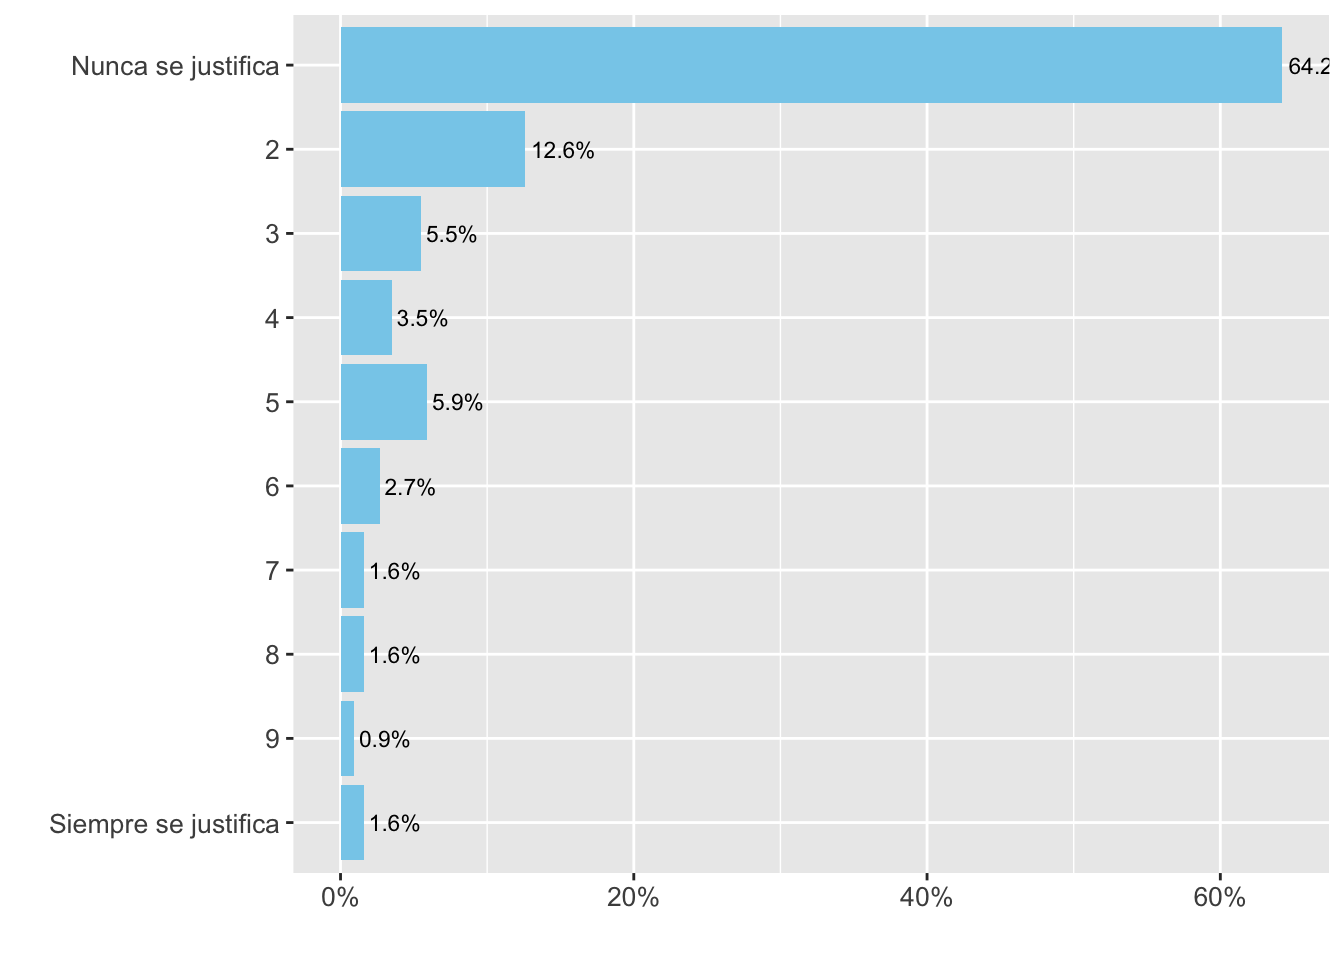
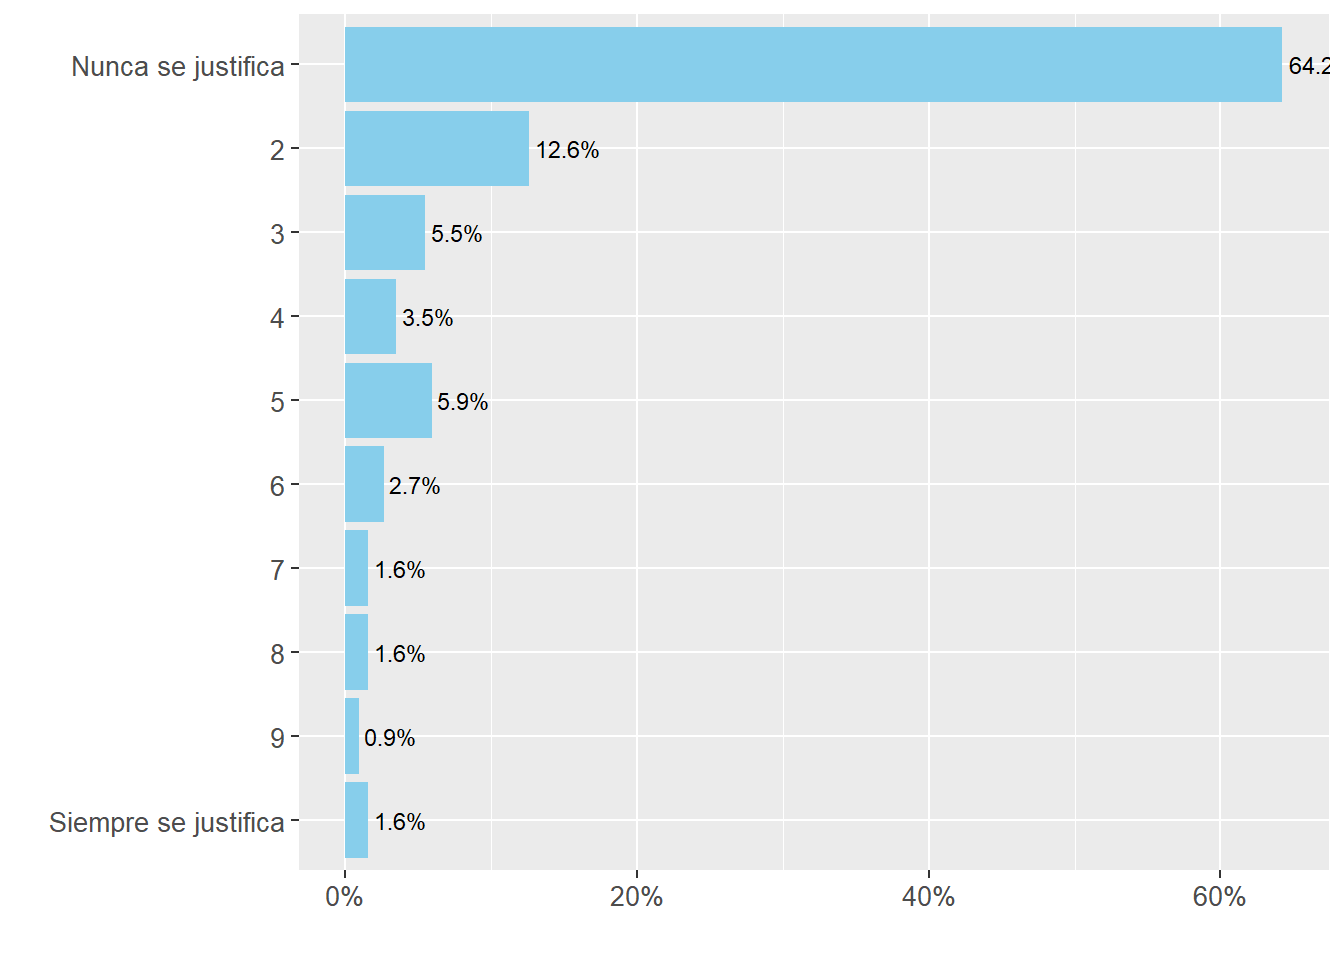
tercer commit aborto

diff --git a/content/post/valores/2020-11-02-los-ecuatorianos-aprueban-el-aborto.html b/content/post/valores/2020-11-02-los-ecuatorianos-aprueban-el-aborto.html
@@ -15,17 +15,17 @@ images:
   - 'https://raw.githubusercontent.com/aquijanoruiz/elquantificador/master/themes/Mainroad/static/img/2020-11-02-los-ecuatorianos-aprueban-el-aborto.jpg'
 ---
 
-<script src="/rmarkdown-libs/header-attrs/header-attrs.js"></script>
 <link href="/rmarkdown-libs/anchor-sections/anchor-sections.css" rel="stylesheet" />
 <script src="/rmarkdown-libs/anchor-sections/anchor-sections.js"></script>
 
 
-<p>En estas últimas semanas se ha dicho mucho sobre el aborto. El nuevo Código Orgánico Integral Penal que fue vetado hace poco no habría las puertas a aborto por cualquier causa como muchos pensaban. Sé que la opinión de muchas está influenciada por su entorno. En mi caso, mis redes sociales reflejaban tal vez que 70% de mis allegados están a favor del aborto por toda causa y el resto en contra (sea cual sea la causa).</p>
-<p>La gente en general suele hacer juicios de valor de lo que piensa la población en relación a lo que piensa la gente a su alrededor y las redes sociales. En las siguientes semanas voy a sacar una serie de artículos llamada “¿Cómo piensan los ecuatorianos?”. Cada artículo va a ser sencillo, una tabulación rápida de una o dos encuestas de la World Values Survey del Ecuador del 2013 de cómo piensan los ecuatorianos con respecto a varios temas: aborto, religión, sexualidad, etc., etc.</p>
+<p>En el mes pasado se ha dicho mucho sobre el aborto. El nuevo Código Orgánico Integral Penal que fue vetado hace poco no habría las puertas a aborto por cualquier causa como muchos pensaban. habló mucho del aborto y muchas personas expresaron su opinión personal sobre el mismo. Algunos equivocadamente piensan que por el cambio generacional o el incremento desapego de los ecuatorianos hacia la religión, hay un importante y creciente apoyo hacia el aborto. Eso no es la realidad, casi 7 de cada 10 ecuatorianos no aprueban el aborto para nada bajo ninguna circuntancia (más os siguientes párrafos).</p>
+<p>La gente en general suele hacer juicios de valor de lo que piensa la población en relación a lo que piensa la gente a su alrededor y las redes sociales. En las siguientes semanas voy a sacar una serie de artículos llamada “¿Cómo piensan los ecuatorianos?”. Cada artículo va a ser sencillo, una tabulación rápida de una o dos encuestas de la World Values Survey del Ecuador del 2013 de cómo piensan los ecuatorianos con respecto a varios temas: aborto, religión, sexualidad, etc.</p>
 <p>Según la entrada en <a href="https://es.wikipedia.org/wiki/Encuesta_Mundial_de_Valores">Wikipedia</a>, “la Encuesta Mundial de Valores (EMV) o World Values Survey (WVS) es un proyecto global de investigación social que explora los valores y opiniones de la gente, cómo estos cambian con el tiempo, y su impacto social y político. Desde 1981 una red mundial de científicos sociales y politólogos llevan a cabo esta investigación, haciendo encuestas nacionales representativas en casi 100 países. La WVS es la única fuente de datos empíricos sobre actitudes y valores humanos que abarca a la mayoría de la población mundial (casi el 90%)”.</p>
 <p>De forma afortunada, tenemos una EMV en 2013 para Ecuador (en 7 años los valores no cambian tanto en una población como se suele pensar). Con esta encuesta se muestreó a toda la población y por la cantidad de repsuestas los resultados no se pueden sacar por provincia o por región. Eso significa que los reusltados en general son representativos de la población de Ecuador en general.</p>
 <p>Ahora sí, el primer artículo de esta serie es sobre si los ecuatorianos aprueban el aborto. La pregunta usada fue esta: “Por favor dígame por cada una de las siguientes afirmaciones si usted cree que siempre puede justificarse, nunca puede justificarse, o si su opinión está en algún punto intermedio. Use esta tarjeta en donde 1 es “nunca se justifica” y 10 es “siempre se justifica”. Una de esas opciones es “Aborto”.</p>
 <p>Recordemos que 1 significa que el aborto nunca se justifica y 10 significa que siempre se justificaHe decidio dejarlo así tal cual del al 10 para que sea vea precisamente donde qué piensa la mayoría de la muestra sin agrupar opciones. Para casi el 65% de la población en Ecuador el aborto DEFINITIVAMENTE NUNCA SE DEBE JUSTIFICAR. Los que justifican el aborto (digamos los que dijeron de 7 para arriba) son apenas el 6% aproximadamente de la población.</p>
-<p><img src="/post/valores/2020-11-02-los-ecuatorianos-aprueban-el-aborto_files/figure-html/unnamed-chunk-2-1.png" width="80%" style="display: block; margin: auto;" /></p>
+<p><strong>Del 0 al 10 (0 siendo que nunca se justica y 10 siempre se justifica, ¿qué tanto usted justifica el aborto?)</strong> [Porcentaje de respuesta de la encuesta]
+<img src="/post/valores/2020-11-02-los-ecuatorianos-aprueban-el-aborto_files/figure-html/unnamed-chunk-2-1.png" width="80%" style="display: block; margin: auto;" /></p>
 <p>En un análisis aparte que puedo compartir con quien lo desee, pensé, en ver quiénes son los ecuatorianos que más apoyan el aborto. Tal vez los más educados o los menores como es la realidad en promedio en países industrializados. La realidad es que no encontré variables que estuvieran fuertemente relacionadas con la actitud hacia el aborto (con ligeras tendencias en que los ateos y agnósticos favorecen el aborto un poco más pero no es una diferencia impacabte. ¿Qué significa esto? Hay similar número de personas que apoya o no apoya el aborto y la educación, religión, y edad no necesariamente determinan la aprobación de esta práctica.</p>
 <p>Como nota, este artículo tiene el objetivo de revelar esa información y no el de tomar alguna posición al respecto del tema.</p>
